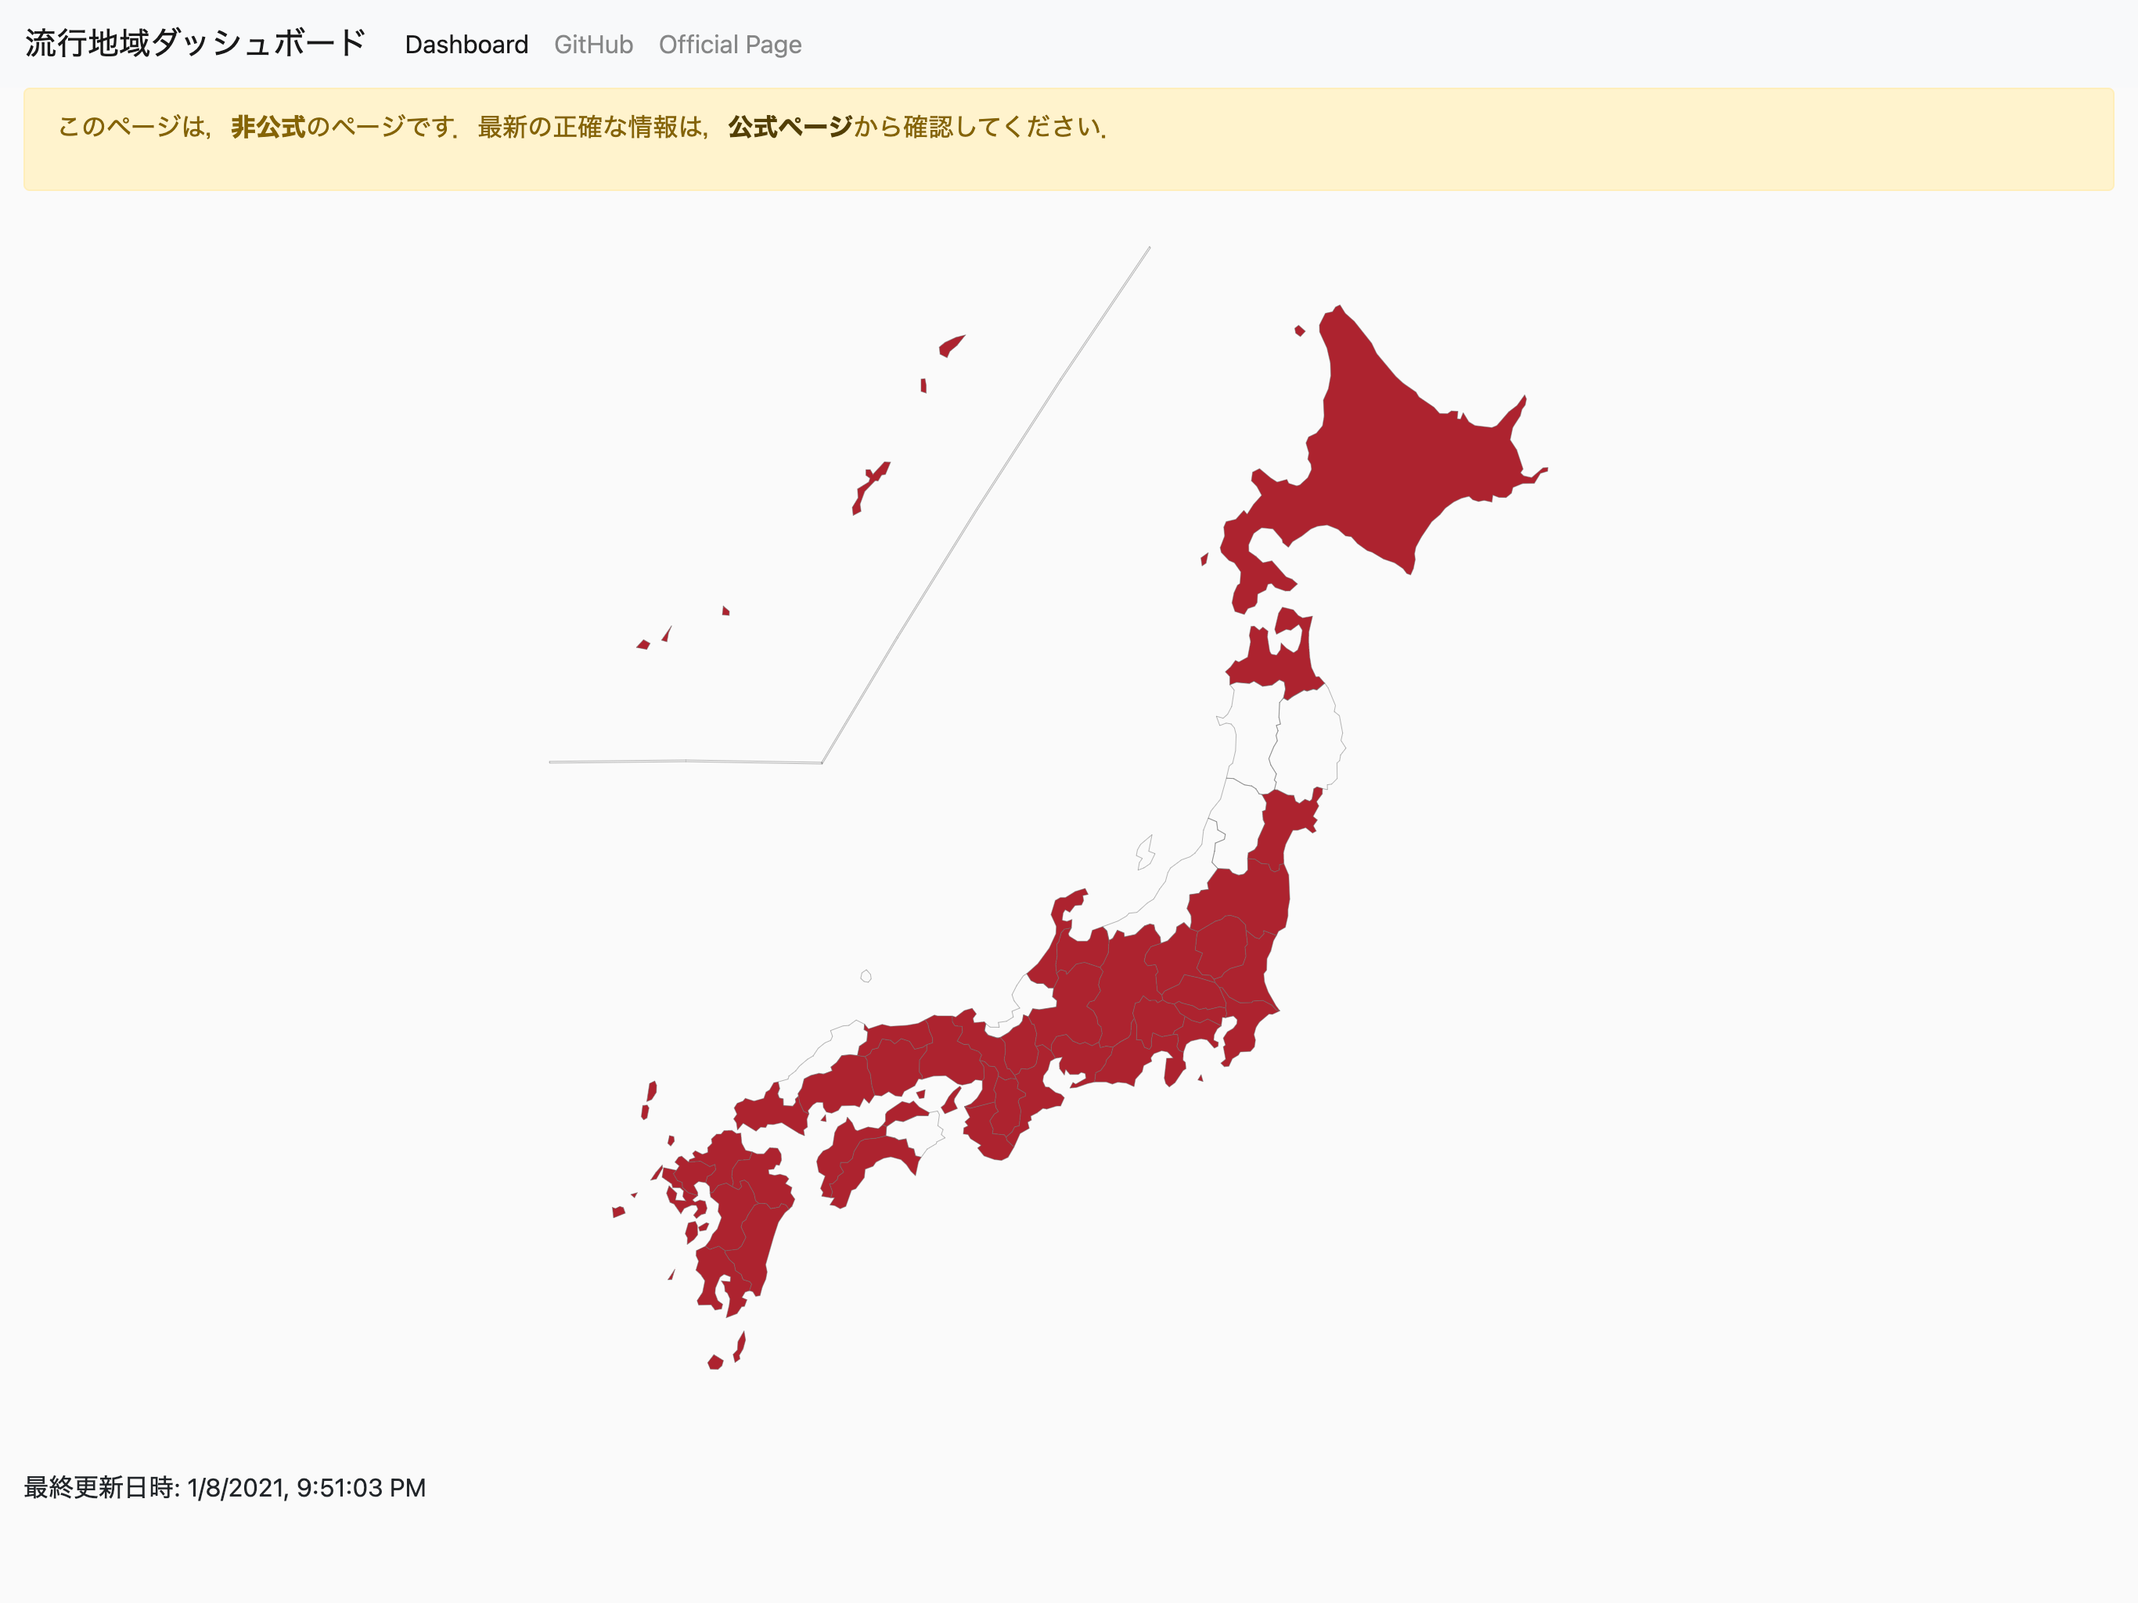
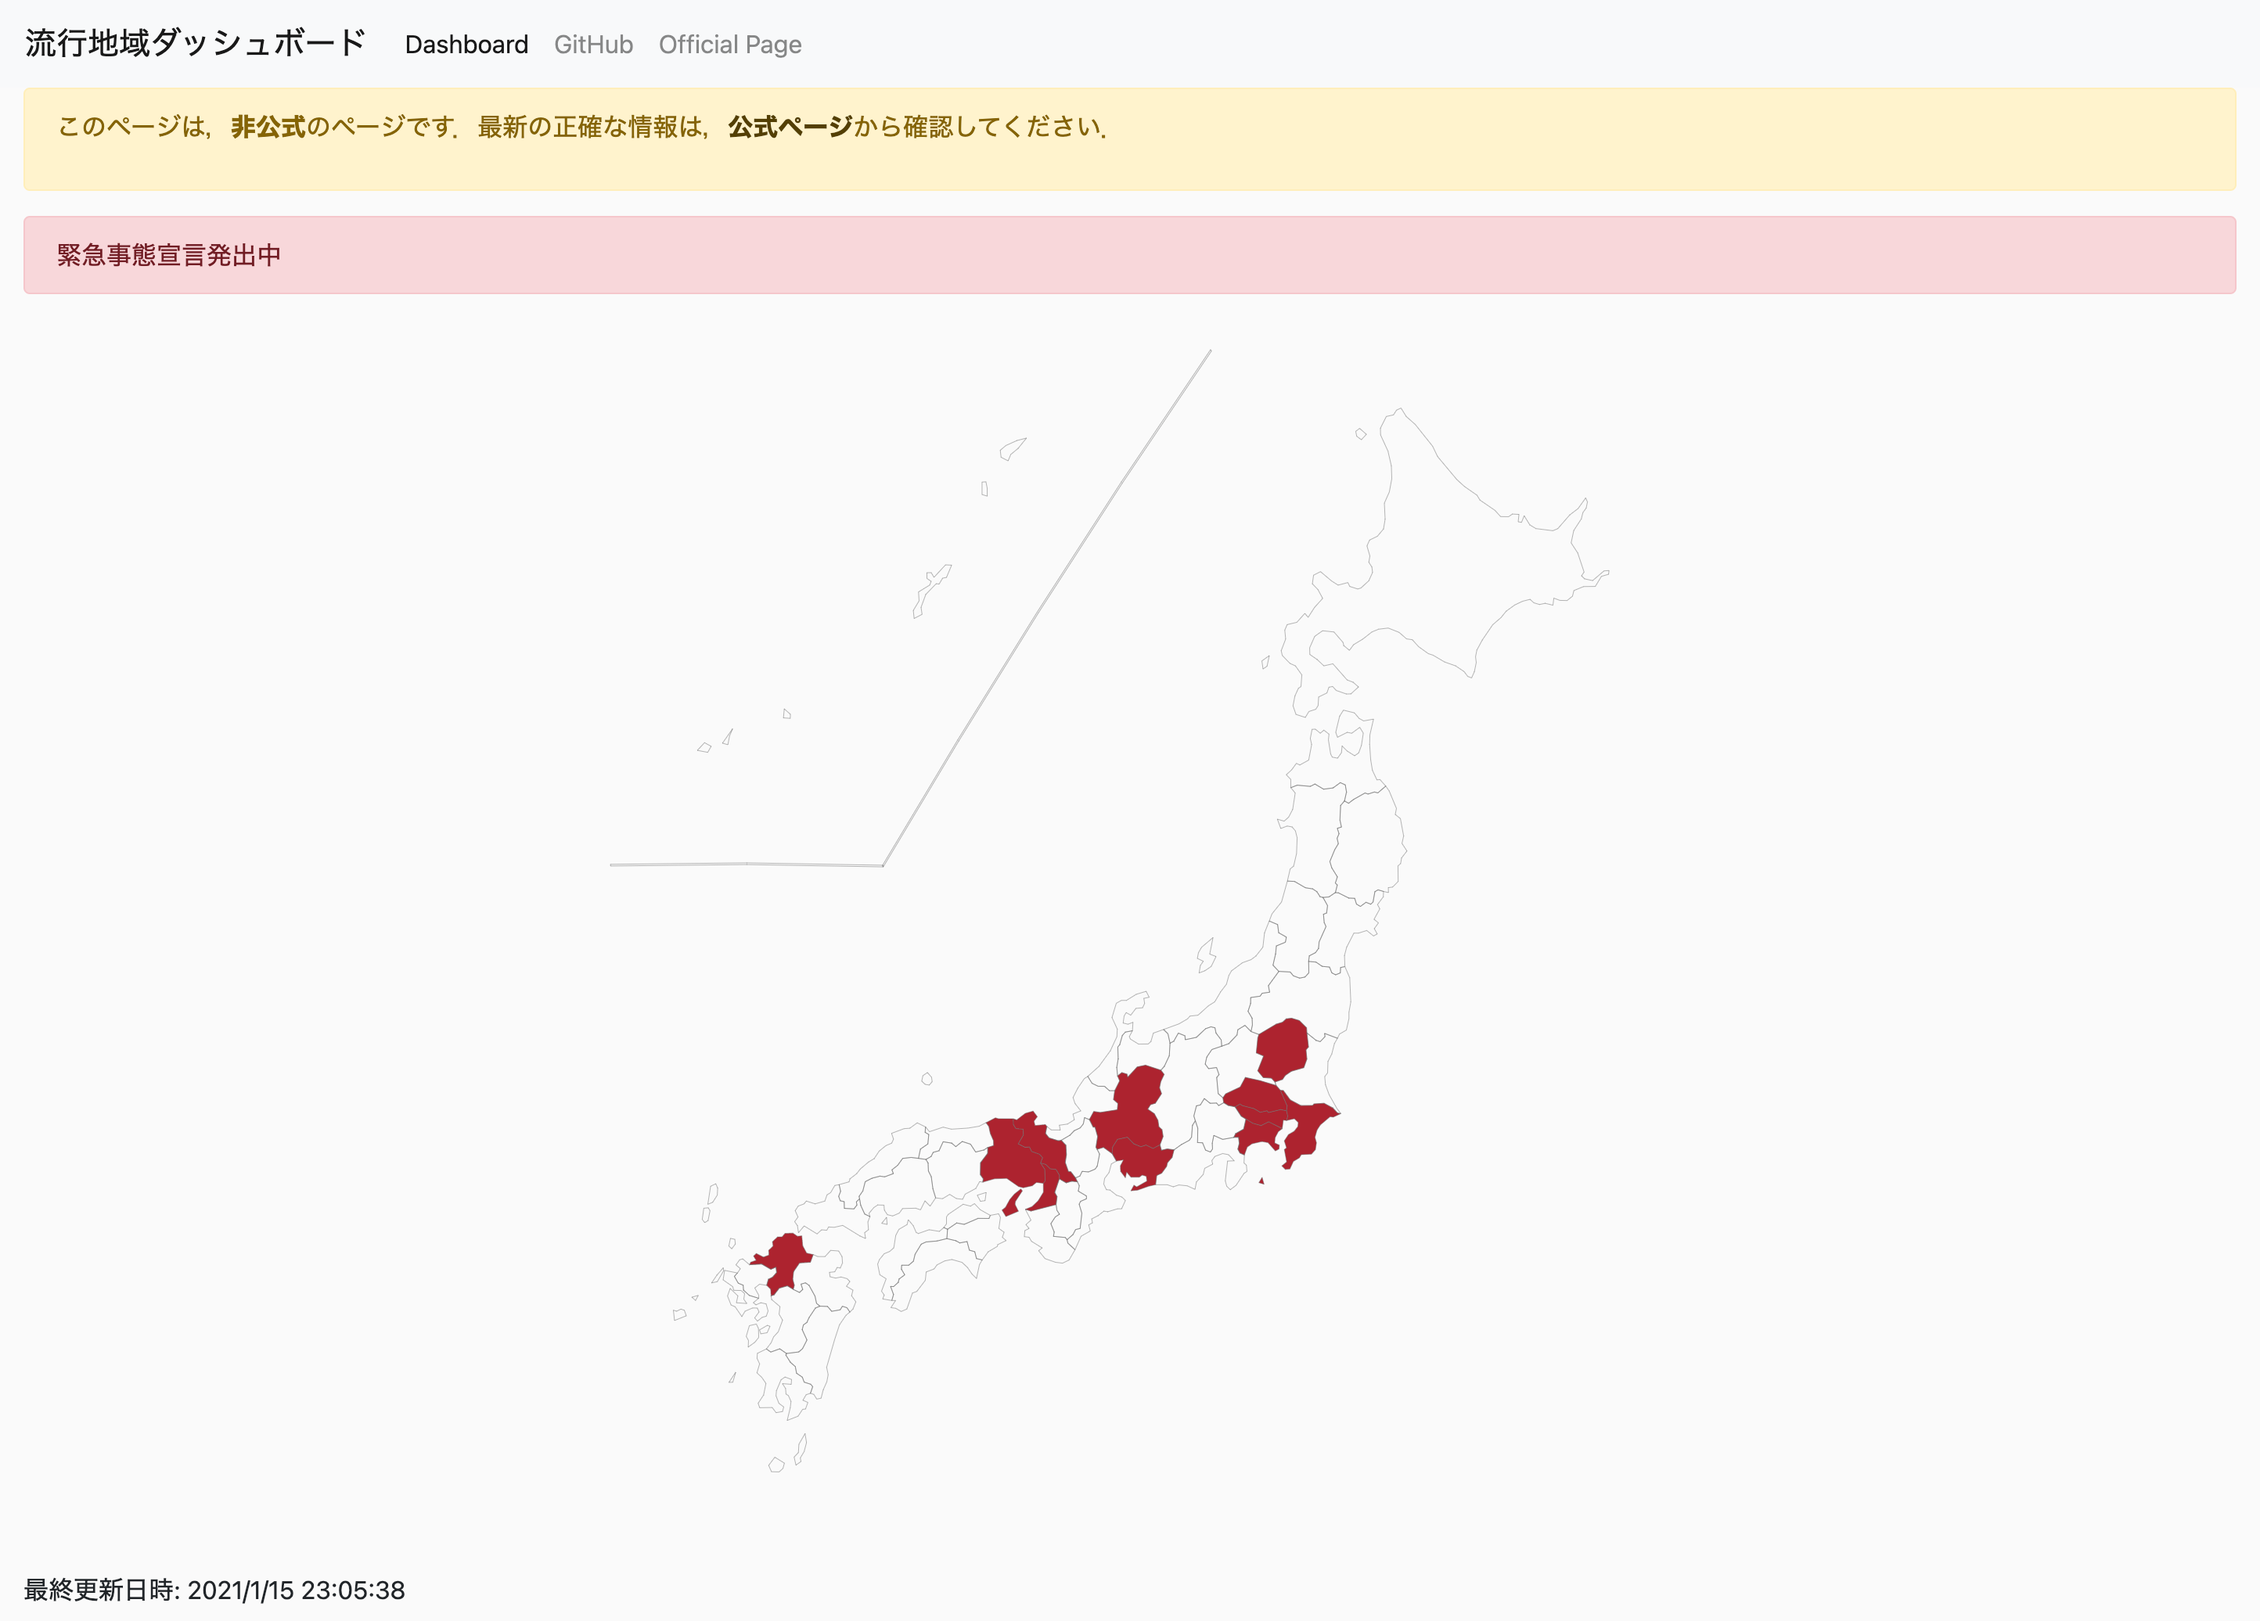
update for message text

diff --git a/app.js b/app.js
@@ -54,30 +54,49 @@ const PREFECTURE_LIST = [
 const main = async () => {
     const res = await fetch('https://www.tut.ac.jp/info/corona/katudo.html');
     const data = await res.text();
-    const endemicArea = /<li>流行地域<\/li>\n<\/ul>\n<ul class="linklist-s">\n<li>(.*)<\/li>/.exec(data);
-    if (endemicArea.length !== 2) {
-        throw 'response data error';
-    }
 
-    const endemicAreaText = endemicArea[1];
+    if (/<p class="box-midashi" id="ryuko">流行地域について<span class="newicon-text">更新・最終更新日.*<\/span><\/p>/.test(data)) {
+        const endemicArea = /<li>緊急事態宣言対象地域 ＝ 原則，出張・旅行・移動の禁止<\/li>\n<\/ul>\n<ul class="linklist-s">\n<li>(.*)<br>※上記以外の地域への出張・旅行・移動は自粛を求めております。<\/li>/.exec(data);
+        if (endemicArea.length !== 2) {
+            throw 'response data error';
+        }
 
-    const isExcept = /.*を除く都道府県$/.test(endemicAreaText);
+        const areaList = endemicArea[1].split('、');
 
-    let areaList = [];
-    if (isExcept) {
-        const exceptPref = areaList = endemicArea[1].replace('を除く都道府県', '').split('、');
-        areaList = PREFECTURE_LIST.filter(p => !exceptPref.includes(p));
-
+        const timestamp = (new Date()).toLocaleString();
+        await fs.writeFile('./data/endemic-area.json', JSON.stringify({
+            area: areaList,
+            timestamp: timestamp,
+            isDeclaresStateOfEmergency: true
+        }));
+        console.info(`wrote new file.\ntimestamp: ${timestamp}\nendemic area count: ${areaList.length}`);
     } else {
-        areaList = endemicArea[1].split('、');
-    }
+        const endemicArea = /<li>流行地域<\/li>\n<\/ul>\n<ul class="linklist-s">\n<li>(.*)<\/li>/.exec(data);
+        if (endemicArea.length !== 2) {
+            throw 'response data error';
+        }
 
-    const timestamp = (new Date()).toLocaleString();
-    await fs.writeFile('./data/endemic-area.json', JSON.stringify({
-        area: areaList,
-        timestamp: timestamp
-    }));
-    console.info(`wrote new file.\ntimestamp: ${timestamp}\nendemic area count: ${areaList.length}`);
+        const endemicAreaText = endemicArea[1];
+
+        const isExcept = /.*を除く都道府県$/.test(endemicAreaText);
+
+        let areaList = [];
+        if (isExcept) {
+            const exceptPref = areaList = endemicArea[1].replace('を除く都道府県', '').split('、');
+            areaList = PREFECTURE_LIST.filter(p => !exceptPref.includes(p));
+
+        } else {
+            areaList = endemicArea[1].split('、');
+        }
+
+        const timestamp = (new Date()).toLocaleString();
+        await fs.writeFile('./data/endemic-area.json', JSON.stringify({
+            area: areaList,
+            timestamp: timestamp,
+            isDeclaresStateOfEmergency: false
+        }));
+        console.info(`wrote new file.\ntimestamp: ${timestamp}\nendemic area count: ${areaList.length}`);
+    }
 };
 
 main();

diff --git a/index.html b/index.html
@@ -52,6 +52,13 @@
         </div>
         <div class="row">
             <div class="col-md-12">
+                <div class="alert alert-danger" role="alert" id="is_declares_state_of_emergency">
+                    緊急事態宣言発出中
+                </div>
+            </div>
+        </div>
+        <div class="row">
+            <div class="col-md-12">
                 <div id="map-wrap">
                     <div id="map"></div>
                 </div>

diff --git a/src/js/main.js b/src/js/main.js
@@ -11,6 +11,10 @@ import * as d3 from 'd3';
 
     updateTimestamp.innerText = `最終更新日時: ${endemicArea.timestamp}`;
 
+    if (!endemicArea.isDeclaresStateOfEmergency) {
+        document.getElementById('is_declares_state_of_emergency').style.display = 'none';
+    }
+
     mapElm.style.height = `${mapElm.offsetWidth}px`;
     const width = mapElm.offsetWidth;
     const height = mapElm.offsetWidth;
